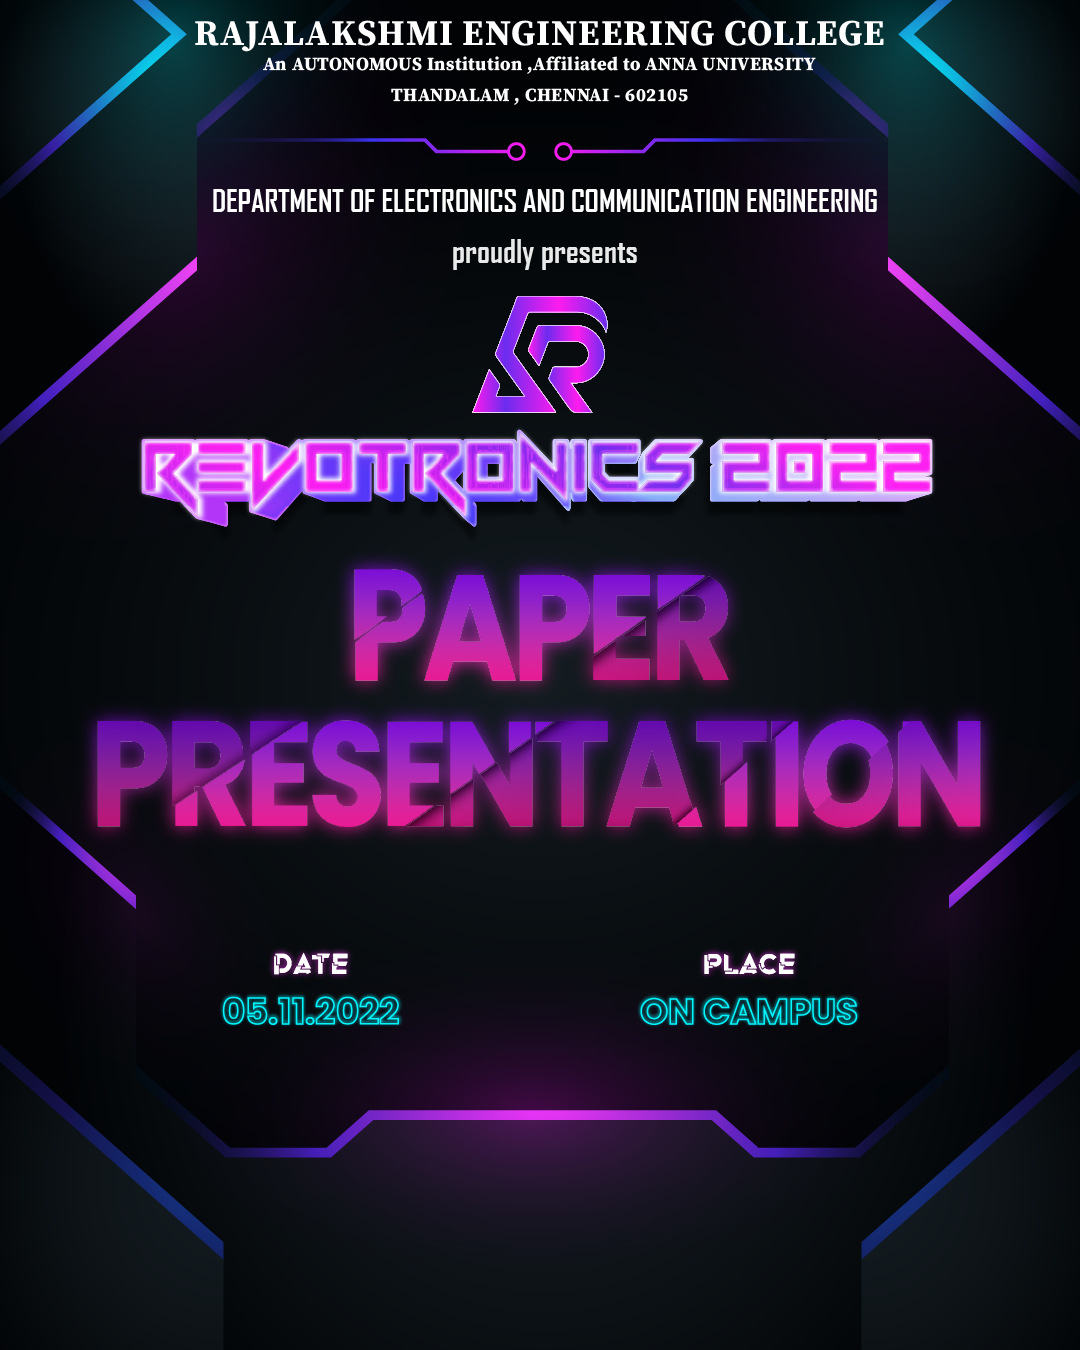
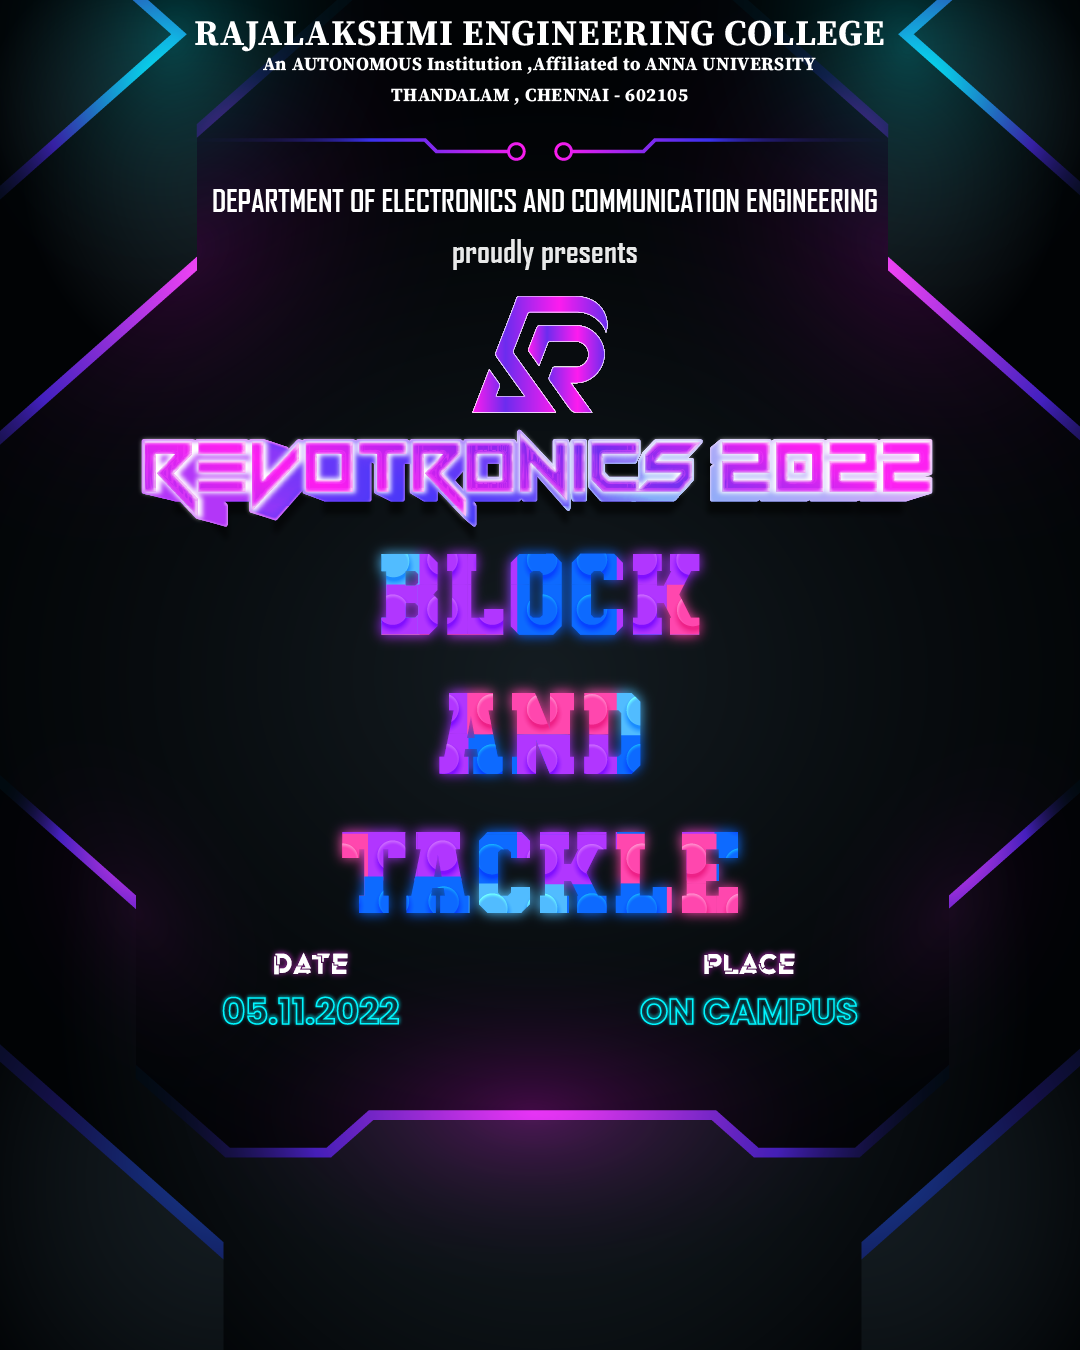
page 5 completed

diff --git a/page5.html b/page5.html
@@ -3,7 +3,7 @@
     <meta charset="UTF-8">
     <meta http-equiv="X-UA-Compatible" content="IE=edge">
     <meta name="viewport" content="width=device-width, initial-scale=1.0">
-    <title>Paper Presentation</title>
+    <title>Block and Tackle</title>
     <link rel="icon" type="image/x-icon" href="./img/rogo.png">
     <link href="https://fonts.googleapis.com/css?family=Varela+Round" rel="stylesheet" />
     <link href="https://fonts.googleapis.com/css?family=Nunito:200,200i,300,300i,400,400i,600,600i,700,700i,800,800i,900,900i" rel="stylesheet" />
@@ -25,17 +25,17 @@
     <div id="herodiv" class="vhcontainer myFlex centerFlex">
         <div id="herotext">
             <img src="./img/rogo.png" id="herologo" />
-            <h1 id="herotitle" class="extraBold gradient0" style="-webkit-text-stroke:0px transparent;">Paper Presentation</h1>
+            <h1 id="herotitle" class="extraBold gradient0" style="-webkit-text-stroke:0px transparent;">Block and Tackle</h1>
         </div>
     </div>
 
     <!-- About div -->
     <div id="aboutdiv" class="vhcontainer myFlex centerFlex" style="height:70vh;">
         <div class="column2flex_page">
-            <img onclick="openInNewTab('./img/page0/eventImage.png')" src="./img/page0/eventImage.png" class="columnImage" style="position:relative;z-index:10015;" />
+            <img onclick="openInNewTab('./img/page5/eventImage.png')" src="./img/page5/eventImage.png" class="columnImage" style="position:relative;z-index:10015;" />
             <div class="myFlex centerFlex columnText">
                 <p>
-                    Reliable Engineers takes many forms, one of which is a presentor. Present and get recognized for your work. The success of your presentation will be measured not by what you say, but rather by what the listener understands.
+                    Train the double agent spy in you. Bring out your imagination and talk for or against a topic for each switch command.
                 </p>
             </div>
         </div>

diff --git a/index.html b/index.html
@@ -150,7 +150,7 @@
         <div class="column2flex">
             <div class="myFlex centerFlex columnText" style="margin-top:0 !important;">
                 <p style="margin:2rem;margin-top:0 !important;margin-left:0;margin-right:0;">
-                    Train the double agent spy in you. Bring out your imagination and talk for or against a topic for each switch command.<br><button onclick="window.open('./page0.html', '_blank').focus();" class="btn extraBold knowmore" style="margin:1rem;">Know more <i class="bi bi-arrow-up-right-square-fill"></i></button>
+                    Train the double agent spy in you. Bring out your imagination and talk for or against a topic for each switch command.<br><button onclick="window.open('./page5.html', '_blank').focus();" class="btn extraBold knowmore" style="margin:1rem;">Know more <i class="bi bi-arrow-up-right-square-fill"></i></button>
                 </p>
             </div>
             <img src="./img/bgwithfangs.png" class="columnImage" onclick="window.open('./img/poster.png', '_blank').focus();" />
